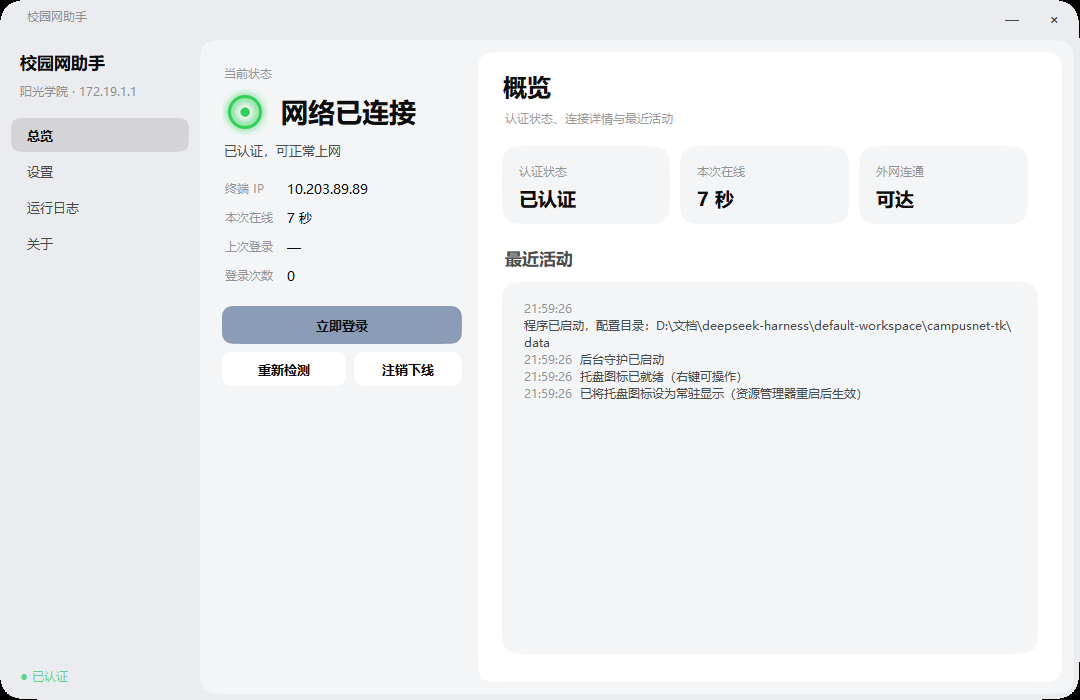
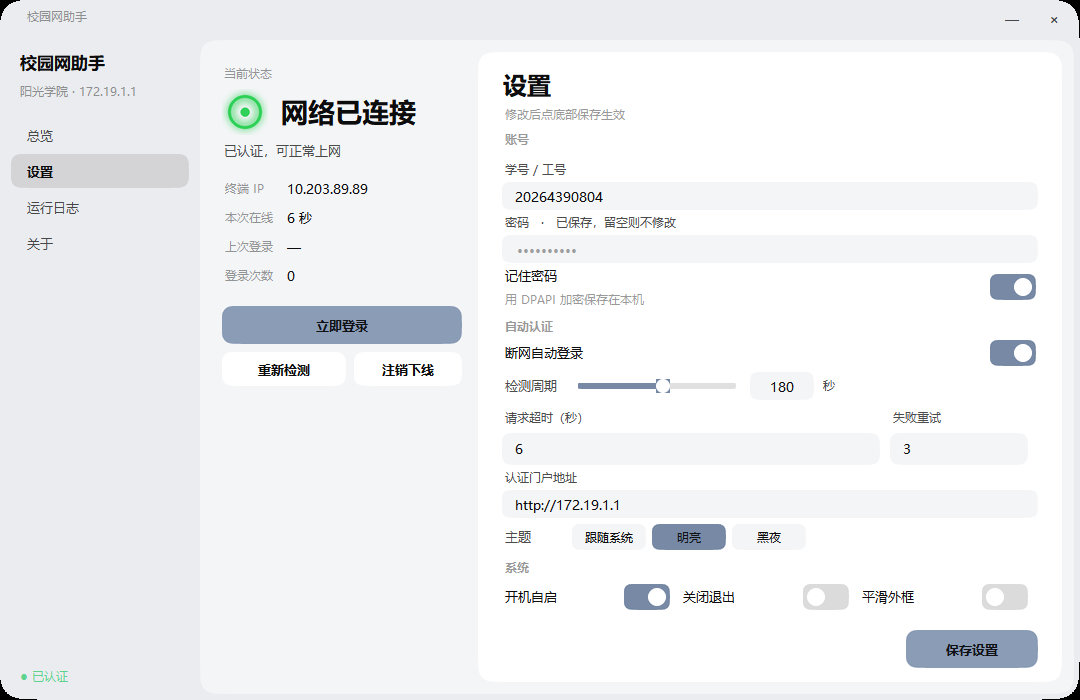
fix: 开关/滑杆滑块改用真圆，消除方块角黑影
- 滑块原来用超椭圆，小尺寸下呈现圆角方块，四角透出底色像阴影
- 新增 _circle_photo，圆按下层轨道色铺底，边缘干净
- draw_round 支持指定下层颜色，叠加元素不再露底色

diff --git a/tk_app.py b/tk_app.py
@@ -164,6 +164,18 @@ def _squircle_photo(w: int, h: int, r: int, fill: str, bg: str | None = None, ss
     return photo
 
 
+def _circle_photo(d: int, fill: str, bg: str, ss: int = 4):
+    key = ("circle", d, fill, bg)
+    if key in _IMG_CACHE:
+        return _IMG_CACHE[key]
+    img = Image.new("RGB", (d * ss, d * ss), bg)
+    ImageDraw.Draw(img).ellipse((0, 0, d * ss - 1, d * ss - 1), fill=fill)
+    img = img.resize((d, d), Image.LANCZOS)
+    photo = ImageTk.PhotoImage(img)
+    _IMG_CACHE[key] = photo
+    return photo
+
+
 def _corner_mask(size: int, r: int, outer: str, inner: str, corner: str):
     """角落补丁：圆弧外侧填 outer、内侧填 inner，输出不透明图（抗锯齿）。"""
     key = ("mask", size, r, outer, inner, corner)
@@ -200,14 +212,15 @@ def _corner_mask(size: int, r: int, outer: str, inner: str, corner: str):
 
 
 def draw_round(canvas: tk.Canvas, x: int, y: int, w: int, h: int, r: int,
-               fill: str, tag: str = "shape") -> None:
+               fill: str, tag: str = "shape", bg: str | None = None) -> None:
     """在 canvas 上画一块抗锯齿的**超椭圆**圆角。没有 PIL 时退化为多边形。"""
     r = max(0, min(r, min(w, h) // 2))
     if HAS_PIL and w > 1 and h > 1:
-        try:
-            bg = canvas.cget("bg")
-        except Exception:                           # noqa: BLE001
-            bg = None
+        if bg is None:
+            try:
+                bg = canvas.cget("bg")
+            except Exception:                       # noqa: BLE001
+                bg = None
         canvas.create_image(x, y, image=_squircle_photo(w, h, r, fill, bg), anchor="nw",
                             tags=tag)
     else:
@@ -518,7 +531,10 @@ class Toggle(tk.Canvas):
         knob = self._ch - 8
         x = self._cw - knob - 4 if self._on else 4
         y = 4
-        draw_round(self, x, y, knob, knob, knob // 2, WHITE)
+        if HAS_PIL:
+            self.create_image(x, y, image=_circle_photo(knob, WHITE, track), anchor="nw")
+        else:
+            self.create_oval(x, y, x + knob, y + knob, fill=WHITE, outline="")
 
     def _toggle(self, _e=None):
         self._on = not self._on
@@ -573,7 +589,12 @@ class Slider(tk.Canvas):
         if x > 8:
             draw_round(self, 6, y - 3, x - 6, 6, 3, ACCENT_TRACK)
         r = 7
-        draw_round(self, x - r, y - r, r * 2, r * 2, r, WHITE)
+        under = ACCENT_TRACK if x > 6 else blend(SURFACE, .12)
+        if HAS_PIL:
+            self.create_image(x - r, y - r, image=_circle_photo(r * 2, WHITE, under),
+                              anchor="nw")
+        else:
+            self.create_oval(x - r, y - r, x + r, y + r, fill=WHITE, outline="")
 
     def _drag(self, event):
         ratio = (event.x - 12) / max(1, self._cw - 24)
